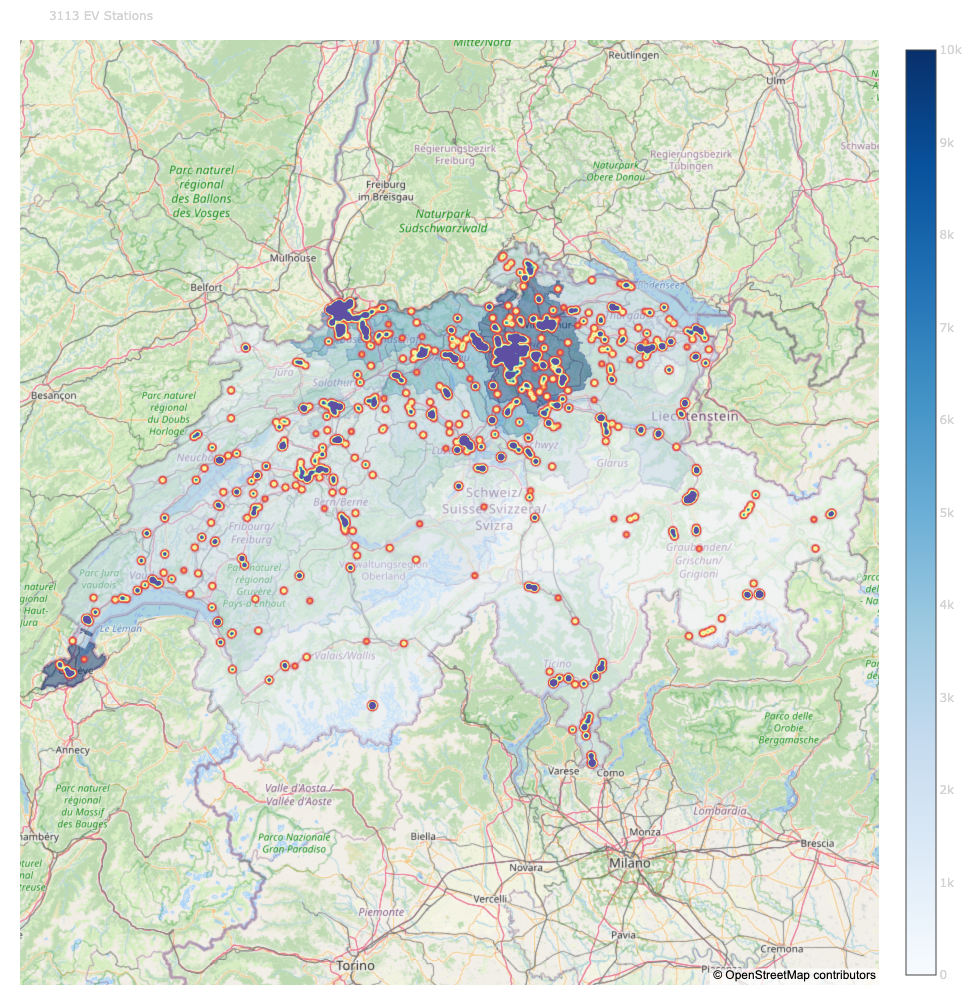
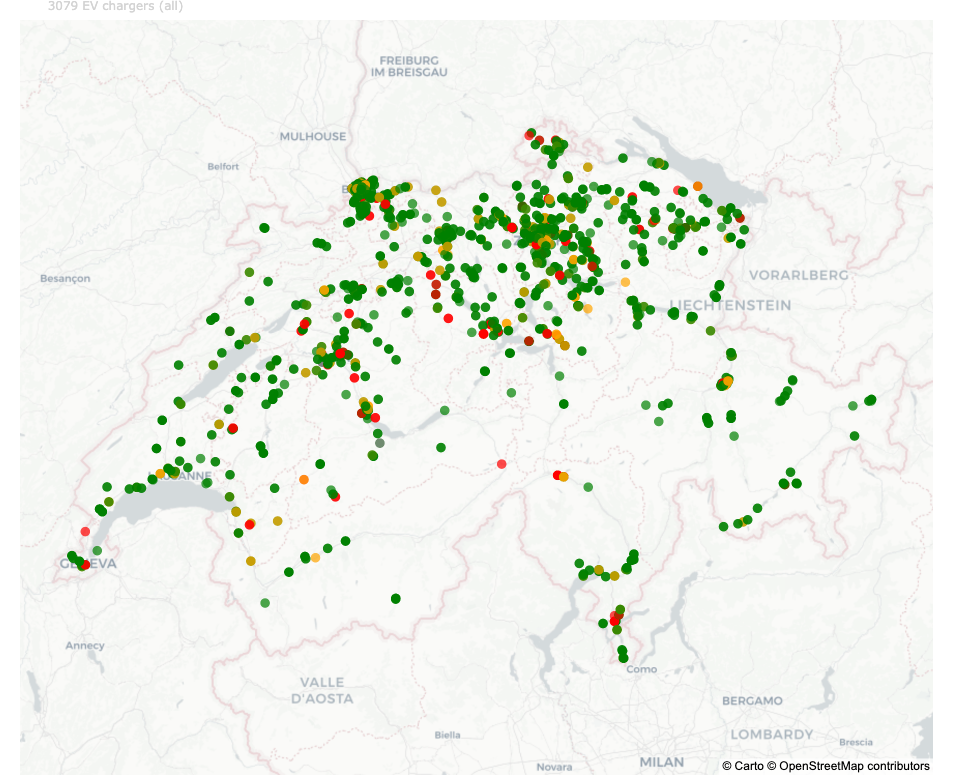
ev map type

diff --git a/pages/dash_swiss_ev.py b/pages/dash_swiss_ev.py
@@ -27,6 +27,7 @@ else:
 
 
 DDOWN_OPTIONS = ["All", "Available", "Occupied", "OutOfService", "Unknown"]
+colors = {"Available": "green", "Occupied": "orange", "OutOfService": "red", "Unknown": "gray"}
 
 layout = html.Div([
     html.H3(children='Swiss EV Charger Network'),
@@ -46,19 +47,19 @@ layout = html.Div([
             html.Div([
 
                 html.Div([
-                    html.Span(style={'background-color': 'green'}, className='legend-color'),
+                    html.Span(style={'background-color': colors.get("Available")}, className='legend-color'),
                     html.Span('Available', style={'margin-right': '15px'}),
                 ], className='legend-item'),
                 html.Div([
-                    html.Span(style={'background-color': 'orange'}, className='legend-color'),
+                    html.Span(style={'background-color': colors.get("Occupied")}, className='legend-color'),
                     html.Span("Occupied"),
                 ], className='legend-item'),
                 html.Div([
-                    html.Span(style={'background-color': 'red'}, className='legend-color'),
+                    html.Span(style={'background-color': colors.get("OutOfService")}, className='legend-color'),
                     html.Span("OutOfService"),
                 ], className='legend-item'),
                 html.Div([
-                    html.Span(style={'background-color': 'gray'}, className='legend-color'),
+                    html.Span(style={'background-color': colors.get("Unknown")}, className='legend-color'),
                     html.Span("Unknown"),
                 ], className='legend-item'),
             ], className='legend-container'),
@@ -107,7 +108,6 @@ layout = html.Div([
 )
 def update_graph(selected_layer=None):
 
-    colors = {"Available": "green", "Occupied": "orange", "OutOfService": "red", "Unknown": "gray"}
     # if cached file is older than 24h or does not exist, load fresh data
     if os.path.exists("static/ev_gdf.json") and time.time() < os.path.getctime("static/ev_gdf.json") + 60*60*24:
         print("Using cached EV static data from file (not older than 24h) ...")
@@ -153,7 +153,7 @@ def update_graph(selected_layer=None):
     fig.update_traces(hovertemplate="GPS: %{lat}, %{lon} <br>Name: %{customdata[0]} <br>Plugs: %{customdata[1]}"
                                     "<br>Status: %{customdata[2]}<extra></extra>")
 
-    fig.update_layout(mapbox_style="open-street-map",
+    fig.update_layout(mapbox_style="carto-positron",
                       title_text=graph_title,
                       title_font={'size': 12, 'color': 'lightgray'},
                       autosize=True,

diff --git a/pages/dash_swiss_population.py b/pages/dash_swiss_population.py
@@ -26,7 +26,7 @@ ddown_options = list(shape_files_dict.keys())
 DATA_OPTIONS = ["Population", "Area", "Density"]
 
 filepath = "static/gdf_kan.json"
-print("Pre-loading Shape data for all shapes...")
+print("Loading Shape data for all shapes...")
 gdf_kan = gpd.read_file("static/gdf_kan.json")
 gdf_bez = gpd.read_file("static/gdf_bez.json")
 gdf_gem = gpd.read_file("static/gdf_gem.json")
